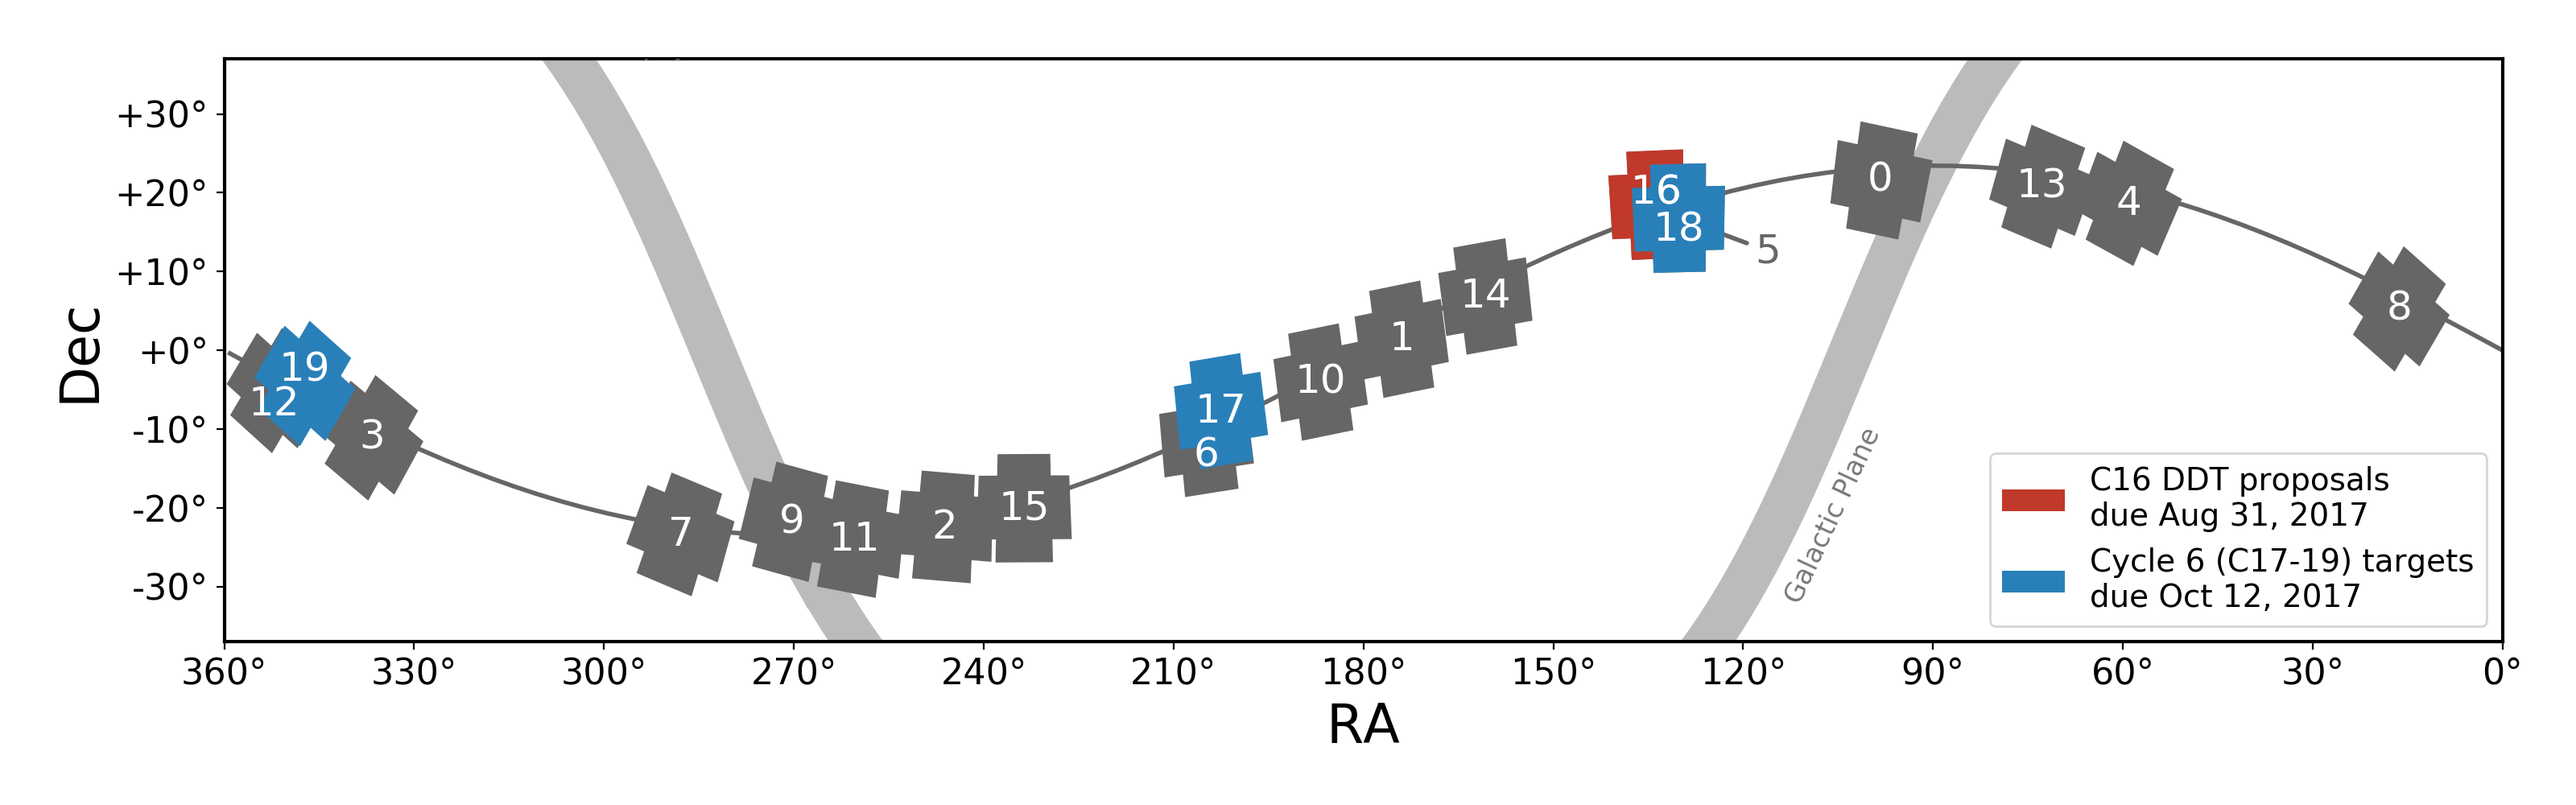
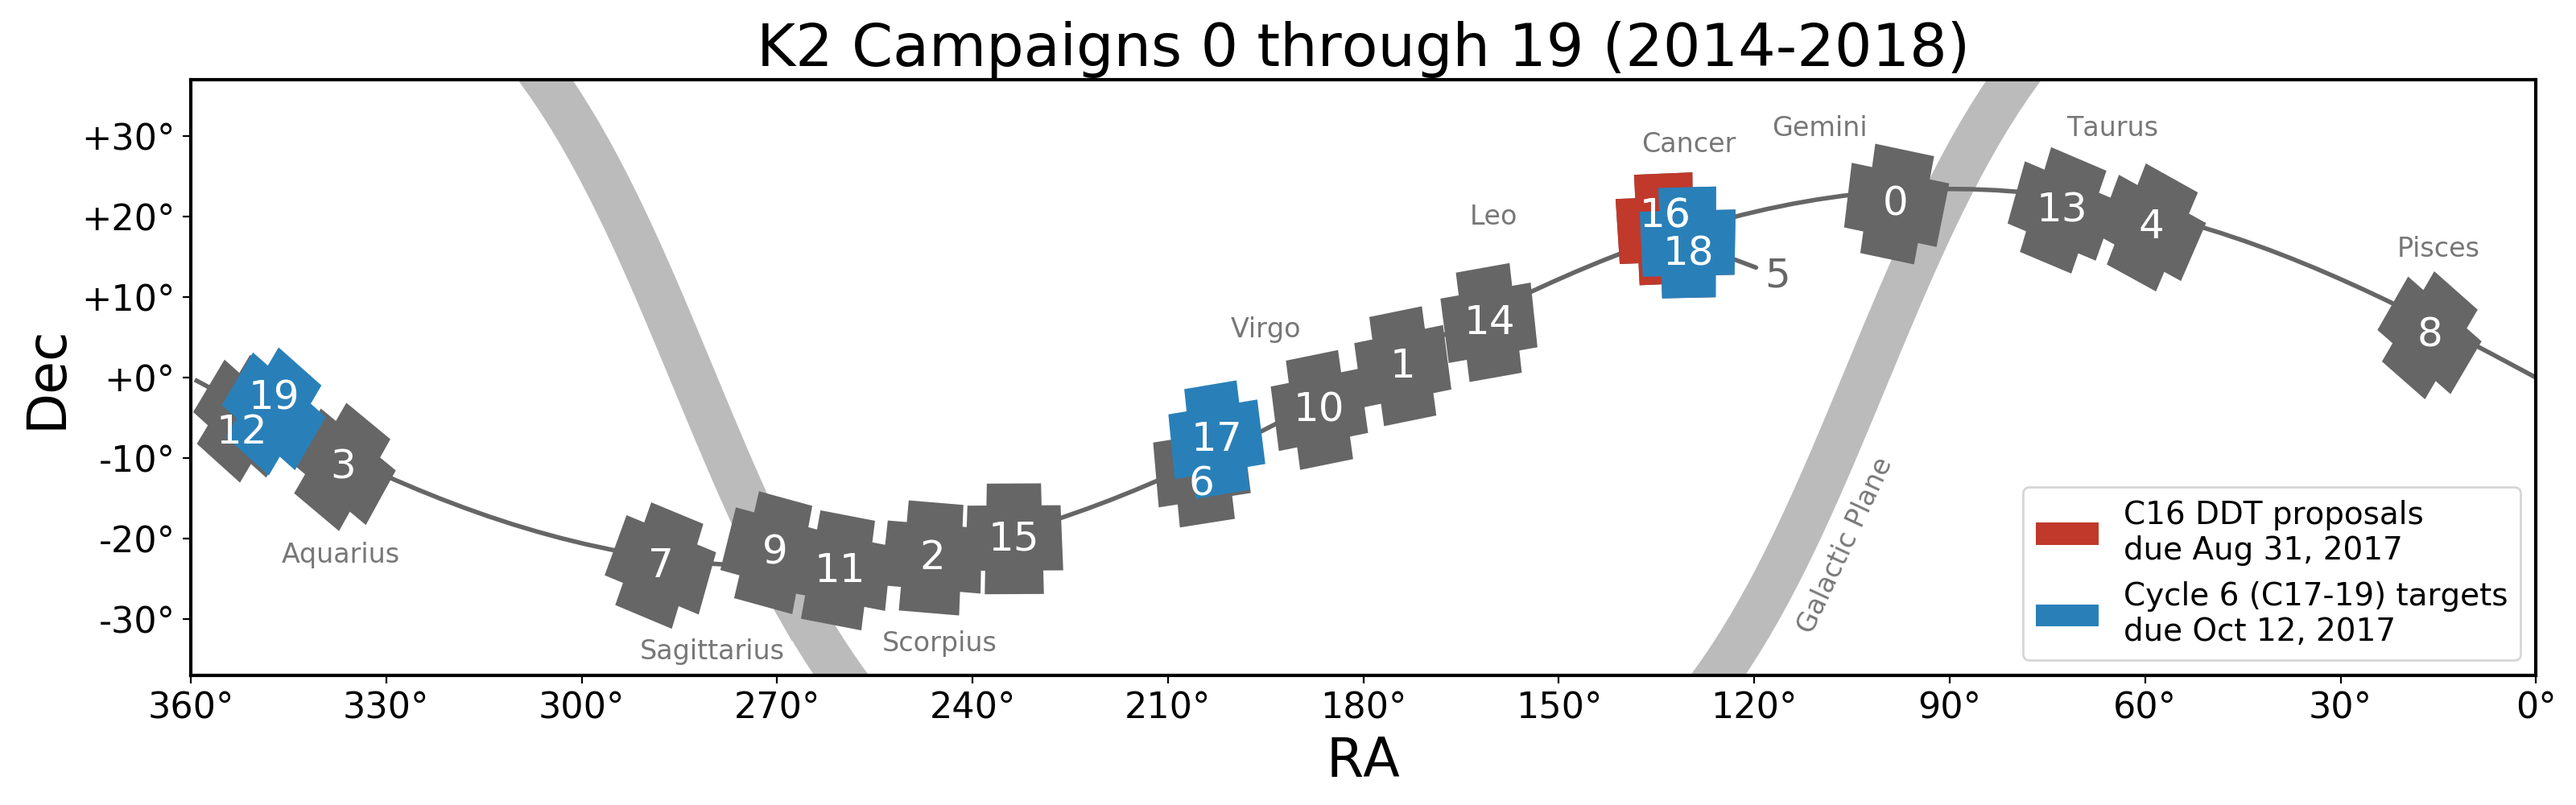
Improve campaign fields overview

Changed region(s): [[0.0, 0.031, 1.0, 0.961], [0.0312, 0.217, 0.0938, 0.279], [0.0938, 0.682, 0.1562, 0.713]]

diff --git a/content/pages/k2-observing/k2-campaign-fields.md b/content/pages/k2-observing/k2-campaign-fields.md
@@ -7,9 +7,7 @@ Each K2 Campaign has a duration of approximately 80 days
 and remains fixed upon a single boresight position. 
 This page details the previous, current, and future K2 Campaign fields.
 
-## Campaigns overview
-
-### Observed and planned
+## Overview
 
 <a href="images/k2/footprint-all-campaigns.png"><img src="images/k2/footprint-all-campaigns.png" class="img-responsive" alt="K2 campaign fields on the sky"></a>
 
@@ -355,8 +353,7 @@ This page details the previous, current, and future K2 Campaign fields.
 </table>
 
   <p>
-  <b><sup>†</sup>Note:</b> fields 9, 16, 17, and 19 are forward-facing campaigns (+VV), enabling simultaneous observations to be made from the ground during the campaign. This comes at the expense of having Earth in K2's field of view,
-  which is a very bright object.
+  <b><sup>†</sup>Note:</b> fields 9, 16, 17, and 19 are forward-facing campaigns, for which simultaneous observations from the ground are possible throughout the duration of the campaign.
   </p>
 
   </div>
